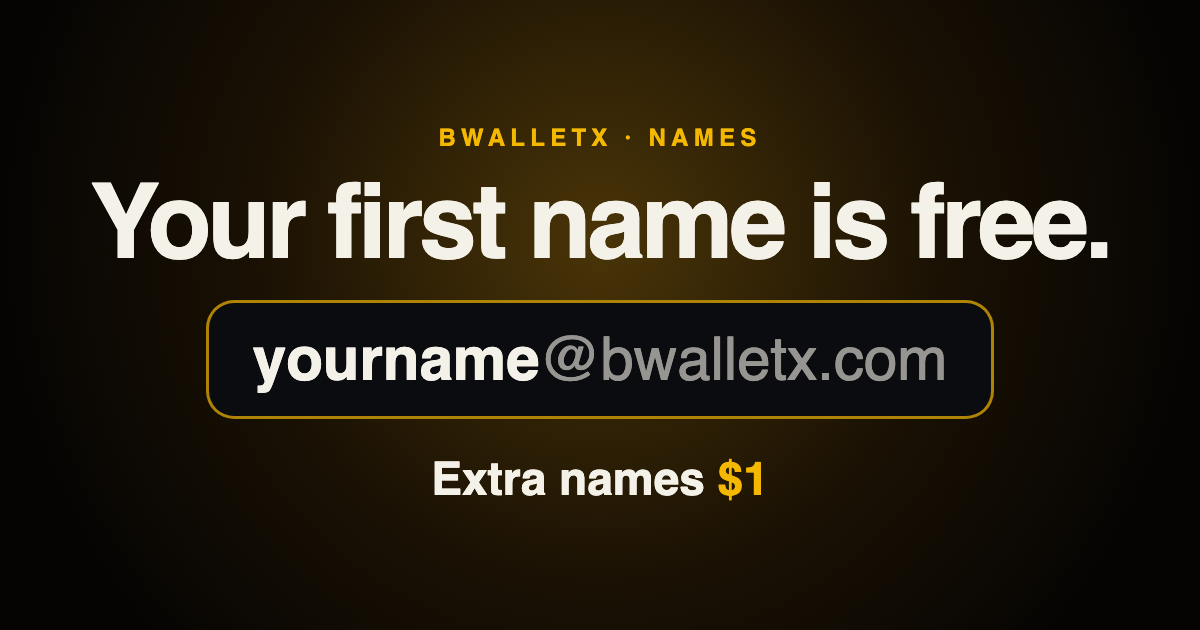
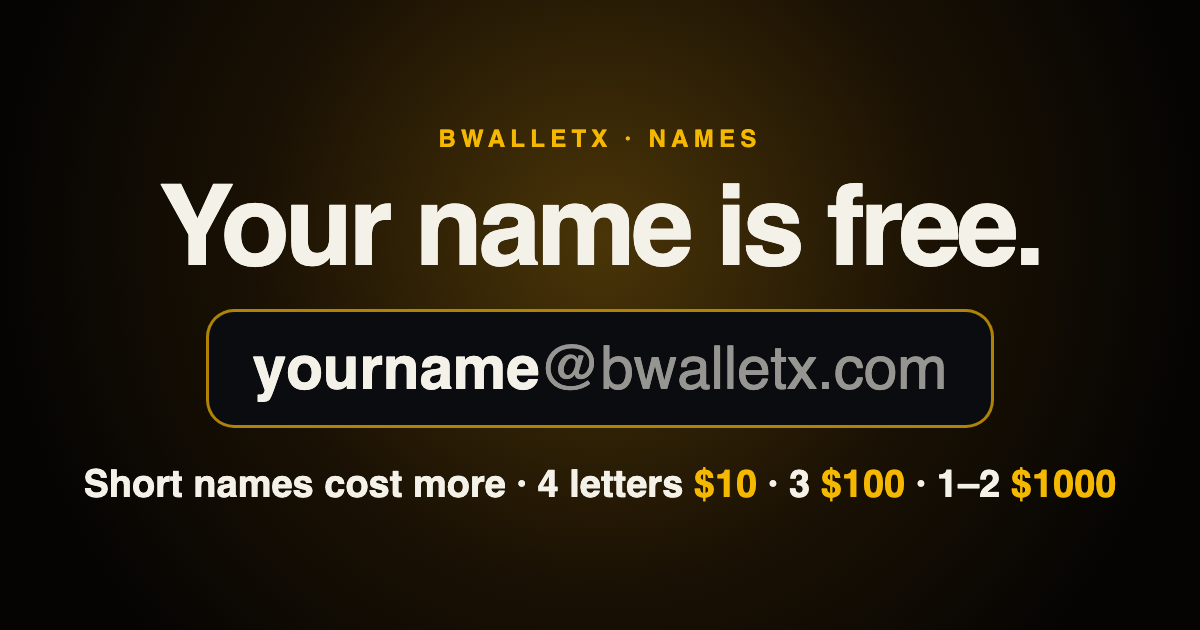
/names: your name is free, short names cost more ($10 / $100 / $1000)

diff --git a/names.html b/names.html
@@ -5,20 +5,20 @@
     <meta name="viewport" content="width=device-width, initial-scale=1" />
     <title>Get your name</title>
     <link rel="canonical" href="https://bwalletx.com/names" />
-    <meta name="description" content="Your first @bwalletx.com name is free. Extra names $1. Search it now and get it in bWalletX. Want an on-chain name you own outright? That's here too." />
+    <meta name="description" content="Your @bwalletx.com name is free. Short names cost more: 4 letters $10, 3 letters $100, 1–2 letters $1000. Search it and get it in bWalletX." />
     <meta property="og:type" content="website" />
     <meta property="og:url" content="https://bwalletx.com/names" />
     <meta property="og:site_name" content="bWalletX" />
-    <meta property="og:title" content="Your first name is free" />
-    <meta property="og:description" content="Your first @bwalletx.com name is free. Extra names $1. Search it now and get it in bWalletX. Want an on-chain name you own outright? That's here too." />
+    <meta property="og:title" content="Your name is free. Short names cost more." />
+    <meta property="og:description" content="Your @bwalletx.com name is free. Short names cost more: 4 letters $10, 3 letters $100, 1–2 letters $1000. Search it and get it in bWalletX." />
     <meta property="og:image" content="https://bwalletx.com/og-names.png" />
     <meta property="og:image:width" content="1200" />
     <meta property="og:image:height" content="630" />
-    <meta property="og:image:alt" content="Your first name is free: yourname@bwalletx.com. Extra names $1." />
+    <meta property="og:image:alt" content="Your name is free. yourname@bwalletx.com. 4 letters $10, 3 letters $100, 1–2 letters $1000." />
     <meta name="twitter:card" content="summary_large_image" />
     <meta name="twitter:site" content="@bWalletX" />
-    <meta name="twitter:title" content="Your first name is free" />
-    <meta name="twitter:description" content="Your first @bwalletx.com name is free. Extra names $1. Search it now and get it in bWalletX. Want an on-chain name you own outright? That's here too." />
+    <meta name="twitter:title" content="Your name is free. Short names cost more." />
+    <meta name="twitter:description" content="Your @bwalletx.com name is free. Short names cost more: 4 letters $10, 3 letters $100, 1–2 letters $1000. Search it and get it in bWalletX." />
     <meta name="twitter:image" content="https://bwalletx.com/og-names.png" />
     <link rel="icon" href="/favicon.ico" />
     <link rel="stylesheet" href="/styles.css" />
@@ -87,6 +87,8 @@
       /* Paymail names (owner pricing, 27 Oct 2026): big, plain, little to read. */
       .pm { text-align: center; margin: 0 auto 72px; max-width: 760px; }
       .pm h1 { font-size: clamp(2.6rem, 9vw, 4.4rem); max-width: 14ch; }
+      .pm-tiers { font-size: 1.1rem; color: rgba(244,241,232,.82); margin: -14px 0 26px; }
+      .pm-tiers b { color: #F5B800; }
       .pm .price { font-size: clamp(1.3rem, 4.5vw, 1.8rem); font-weight: 700; margin: 0 0 28px; color: #f4f1e8; }
       .pm .price .gold { color: #F5B800; }
       .pm-search { display: flex; align-items: center; gap: 0; max-width: 640px; margin: 0 auto; background: #0b0c0f; border: 2px solid rgba(245,184,0,.55); border-radius: 20px; padding: 6px 18px; }
@@ -117,8 +119,9 @@
       <main class="ext nm">
         <section class="pm" aria-labelledby="pm-title">
           <span class="nm-kicker">Names</span>
-          <h1 id="pm-title">Your first name is free.</h1>
-          <p class="price">Extra names <span class="gold">$1</span></p>
+          <h1 id="pm-title">Your name is free.</h1>
+          <p class="price">Short names cost more.</p>
+          <p class="pm-tiers">5+ letters <b>Free</b> · 4 letters <b>$10</b> · 3 letters <b>$100</b> · 1–2 letters <b>$1000</b></p>
           <form class="pm-search" id="pm-form" role="search">
             <input id="pm-q" type="text" placeholder="yourname" autocomplete="off" autocapitalize="none" spellcheck="false" maxlength="32" aria-label="Find your @bwalletx.com name" />
             <span class="dom">@bwalletx.com</span>
@@ -193,13 +196,15 @@
               if (mine !== seq) return;
               var name = esc(a) + '@bwalletx.com';
               if (!j) return show('no', 'Couldn&rsquo;t check', 'Try again in a moment.', false);
-              var extra = j.price && j.price.extraUsd ? '$' + j.price.extraUsd : 'free';
-              switch (j.status || (j.available ? 'free' : j.reason)) {
-                case 'free': case 'paid': case 'mine':
-                  return show('ok', name + ' is free', 'Free as your first name. As an extra name: ' + extra + '.', true);
-                case 'taken': return show('no', name + ' is taken', 'Try another.', false);
-                case 'held': return show('held', name + ' is held', 'Held for The Bitcoin Corporation. Not for sale.', false);
-                case 'reserved': return show('held', name + ' is reserved', 'Not for sale.', false);
+              var st = j.status || (j.available ? 'free' : j.reason);
+              var usd = Number(j.priceUsd) || 0;
+              switch (st) {
+                case 'free': case 'mine':
+                  return show('ok', 'Free', name + ' is yours to take.', true);
+                case 'priced':
+                  return show('held', '$' + usd.toLocaleString('en-US'), name + ' is available. Paid in BSV.', true);
+                case 'taken': return show('no', 'Taken', name + ' is taken. Try another.', false);
+                case 'held': case 'reserved': return show('held', 'Reserved', name + ' is not for sale.', false);
                 default: return show('no', 'Not a valid name', esc(j.message || 'Use a-z, 0-9, - or _.'), false);
               }
             });
